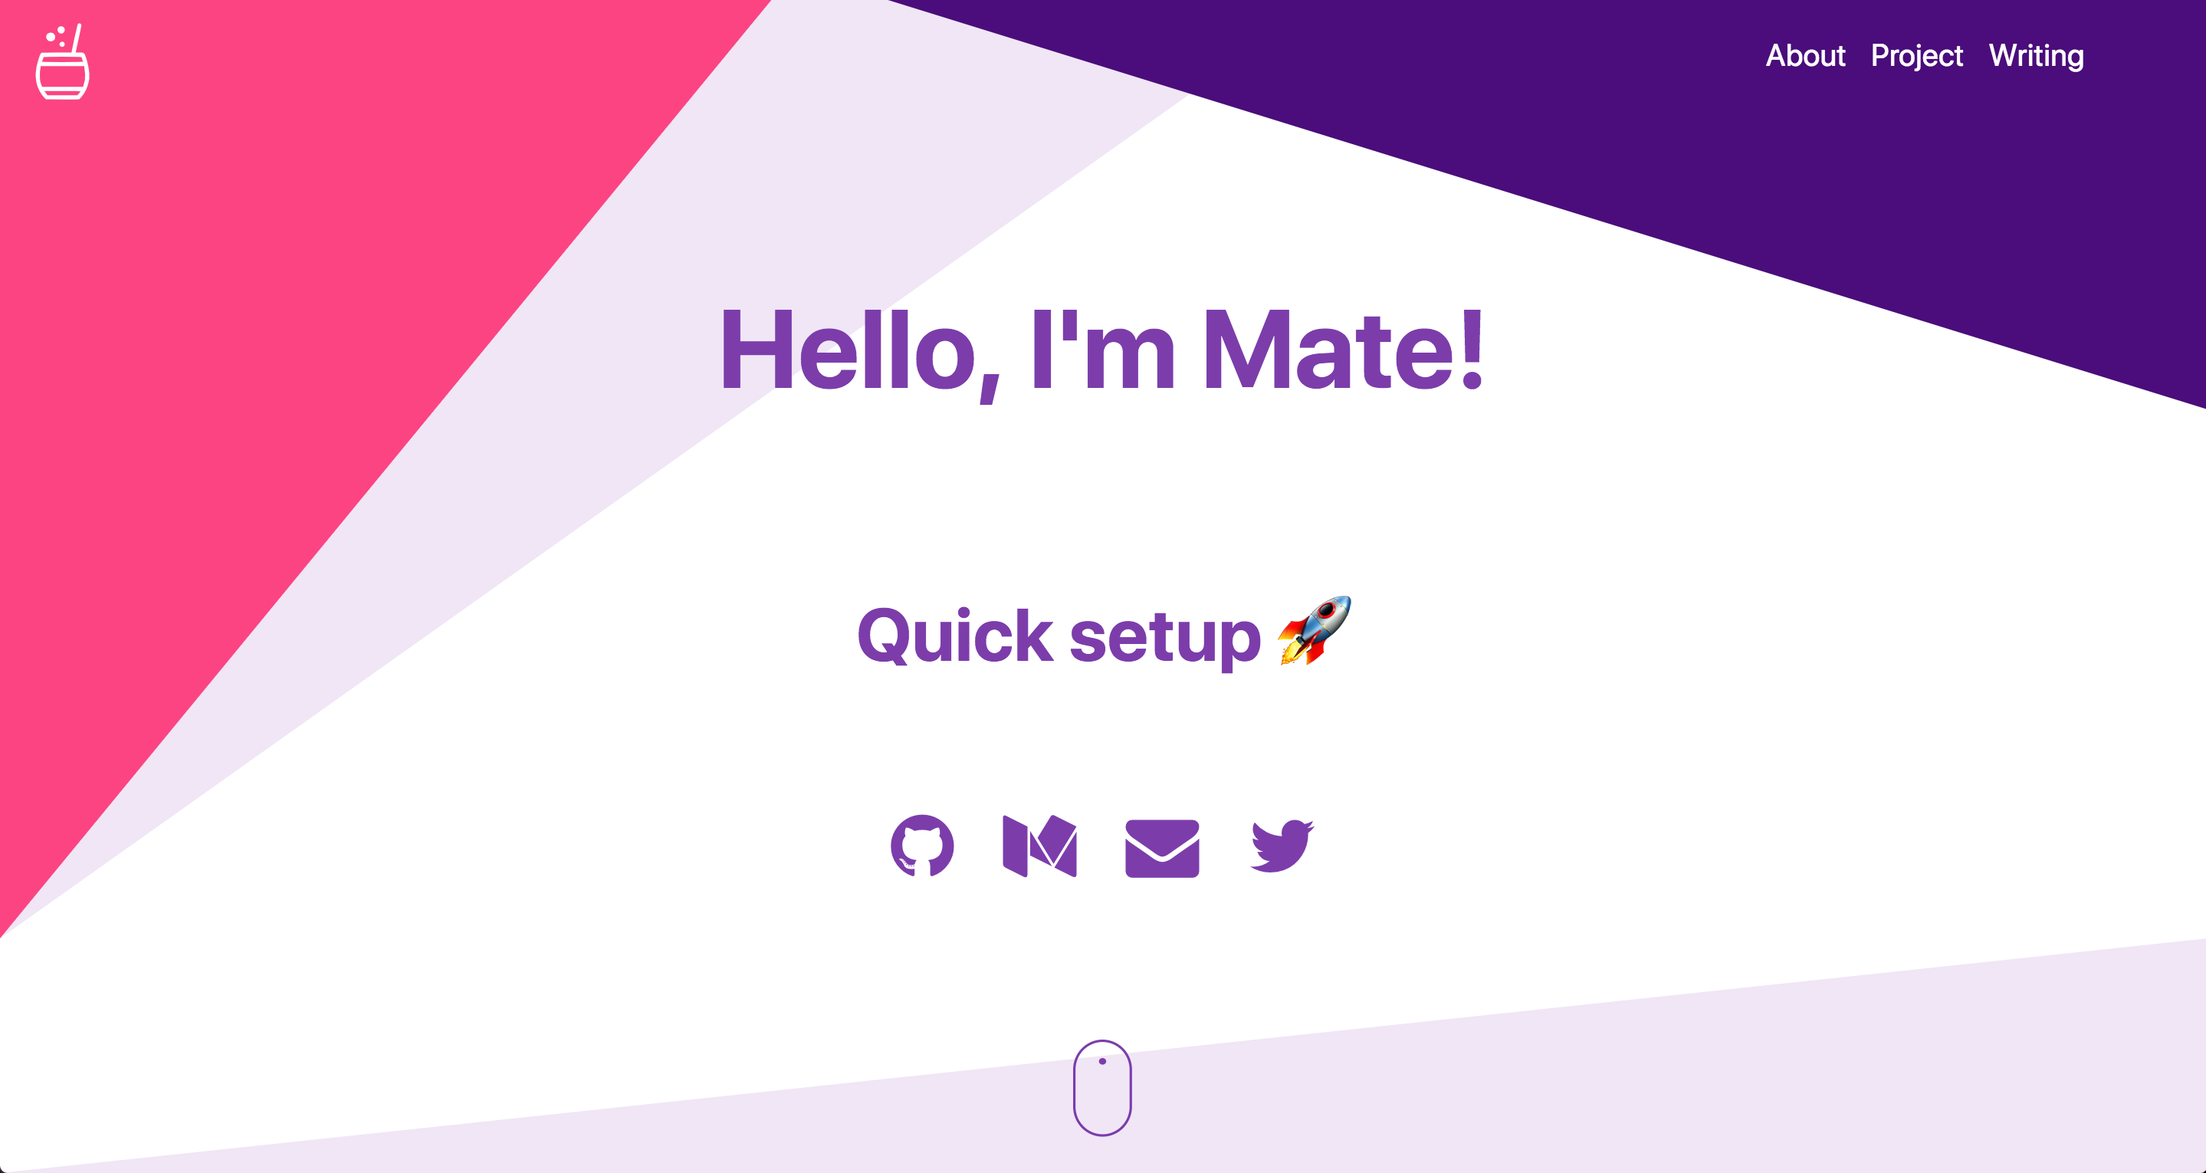
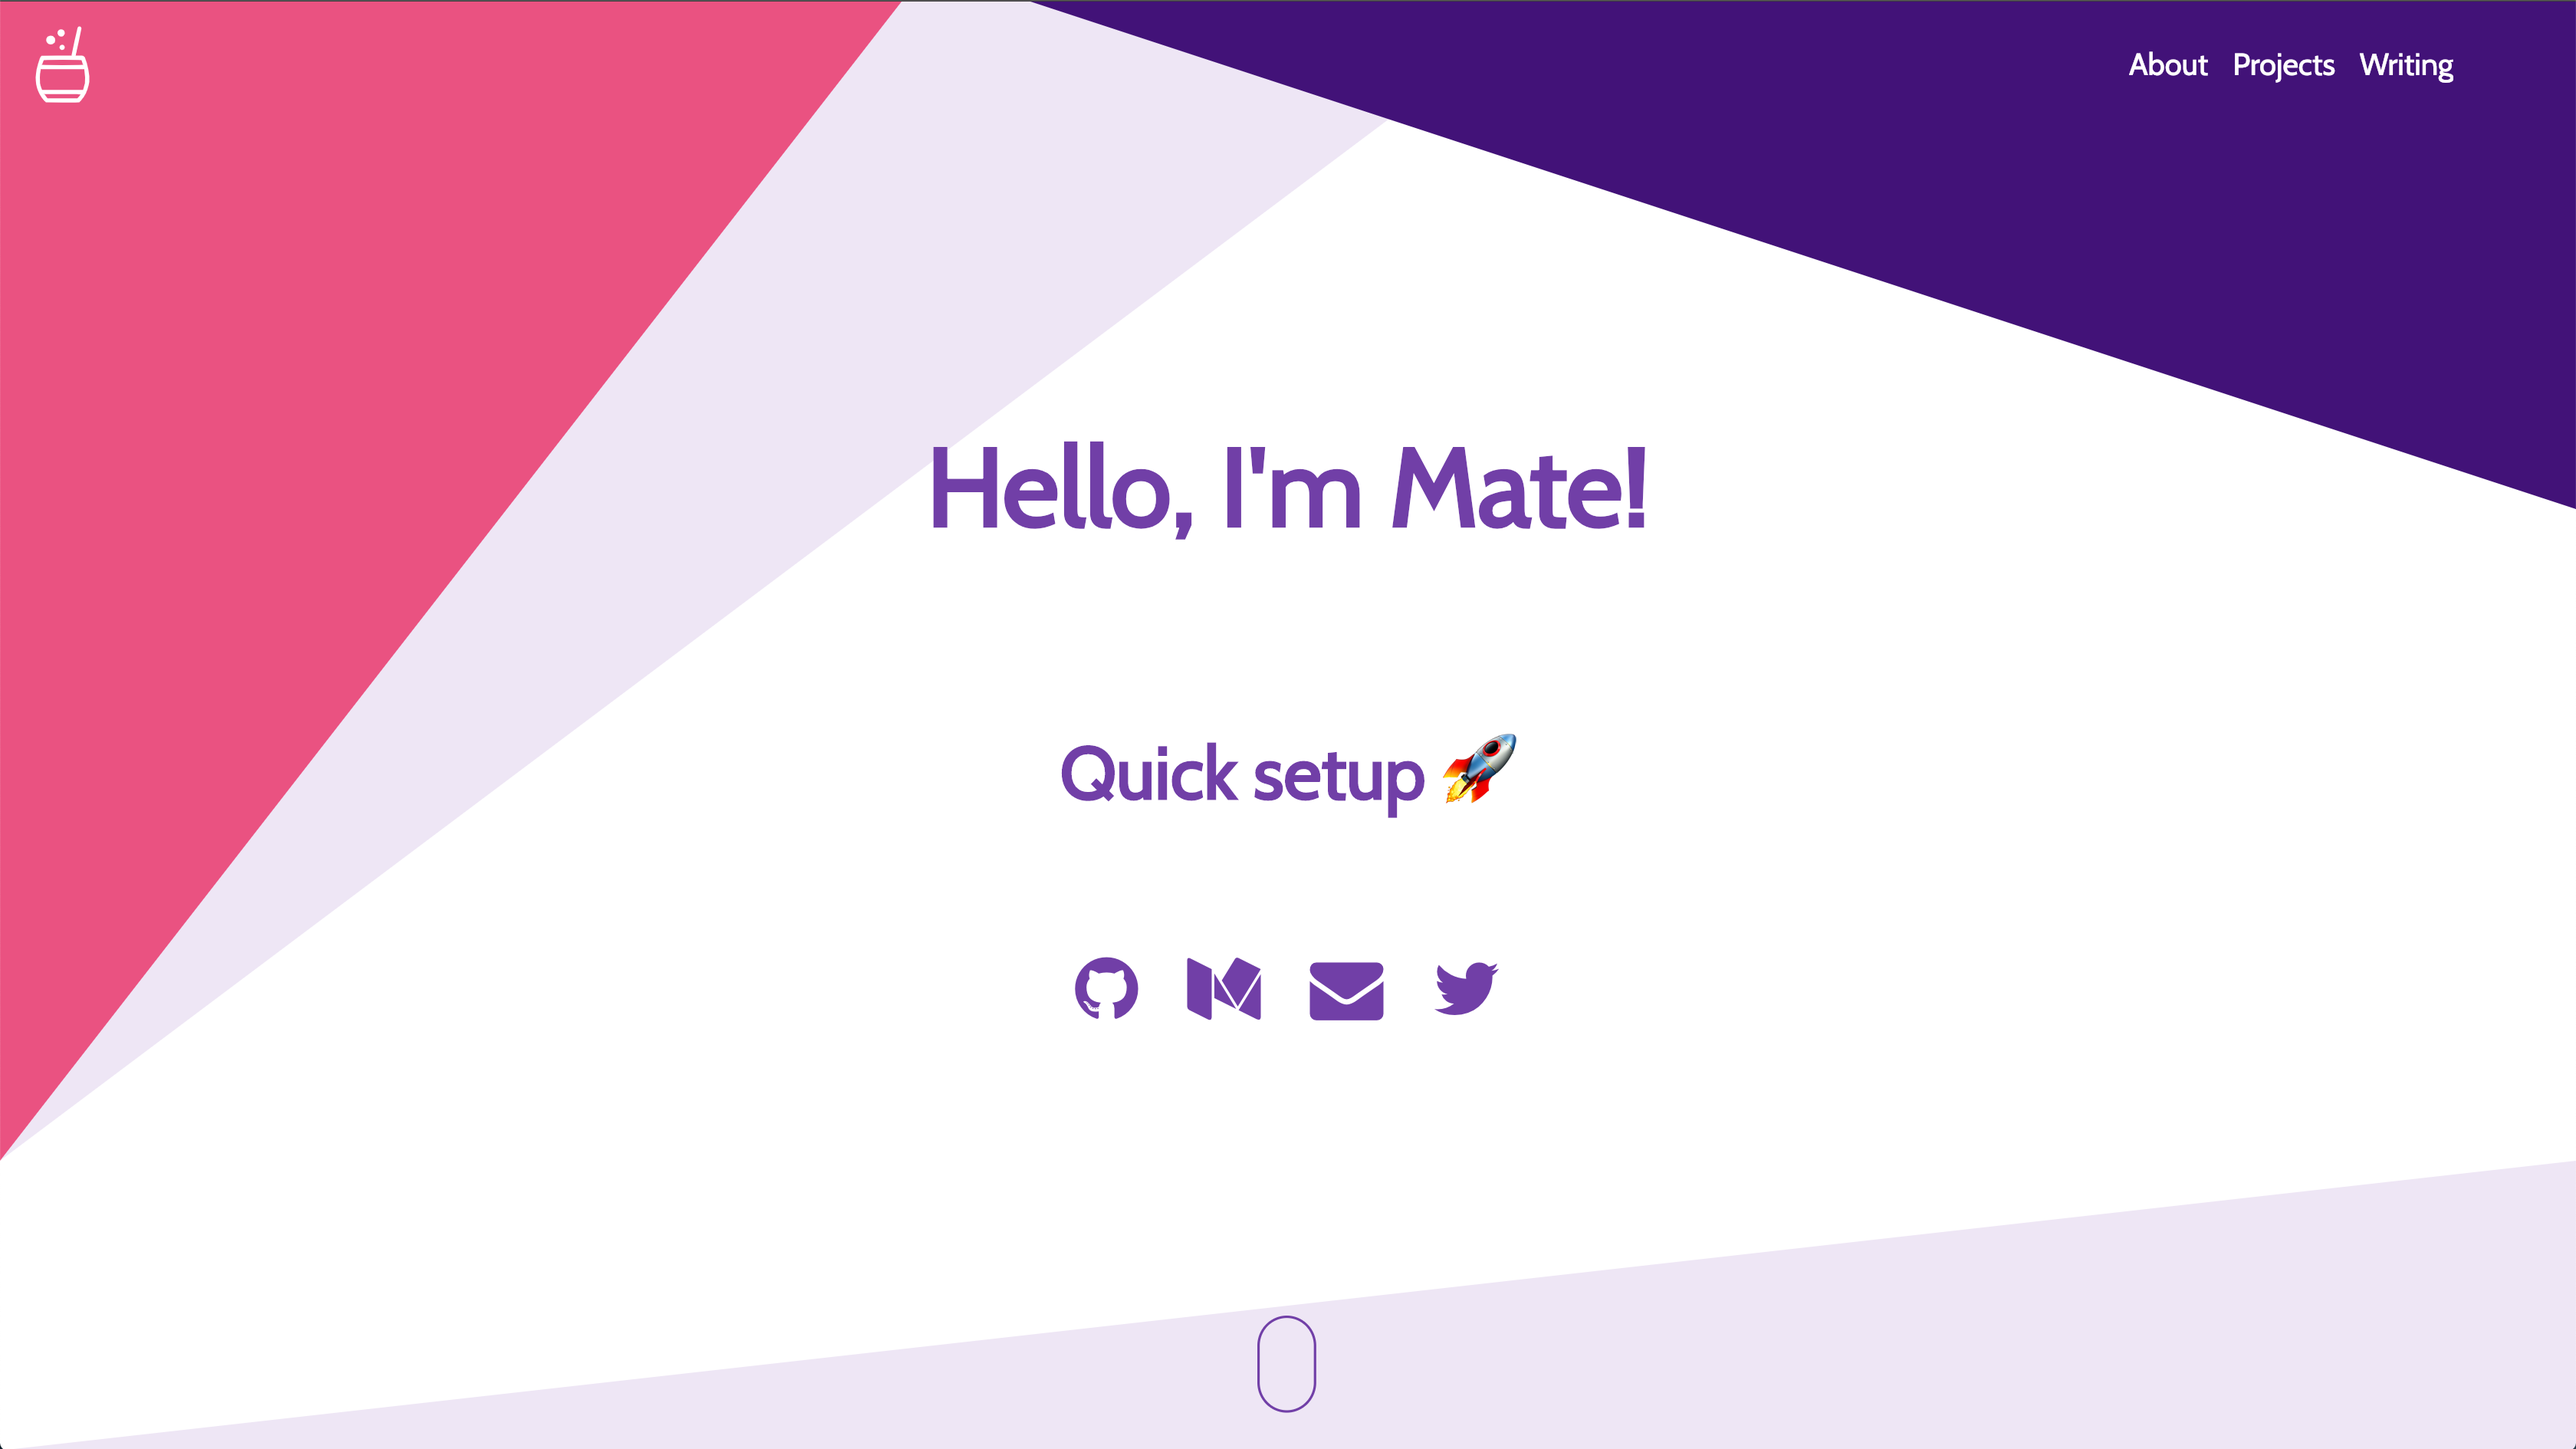
docs(Readme.md): Add docs for new design and sections

diff --git a/README.md b/README.md
@@ -117,10 +117,22 @@ Finished importing all data
 After this step we can finally run the project and see the result in http://localhost:8000/ 😃
 
 ```bash
-yarn develop
+yarn start
 ```
 
-![Landing mate page](./media/home.png)
+## Screenshot and design 🖼
+
+As the starter is a SPA it only has two routes:
+- `/`: main page with the sections of `Home`, `About me`, `Projects` and `Writing`.
+- `/404`: error page for unexpected route.
+
+| Section  |           Screenshot            |
+| -------- | :-----------------------------: |
+| Home     |     ![Home](media/home.png)     |
+| About me |  ![About me](media/about.png)   |
+| Projects | ![Projects](media/projects.png) |
+| Writing  |  ![Writing](media/writing.png)  |
+| /404     |      ![404](media/404.png)      |
 
 ## Building your site 📦
 
